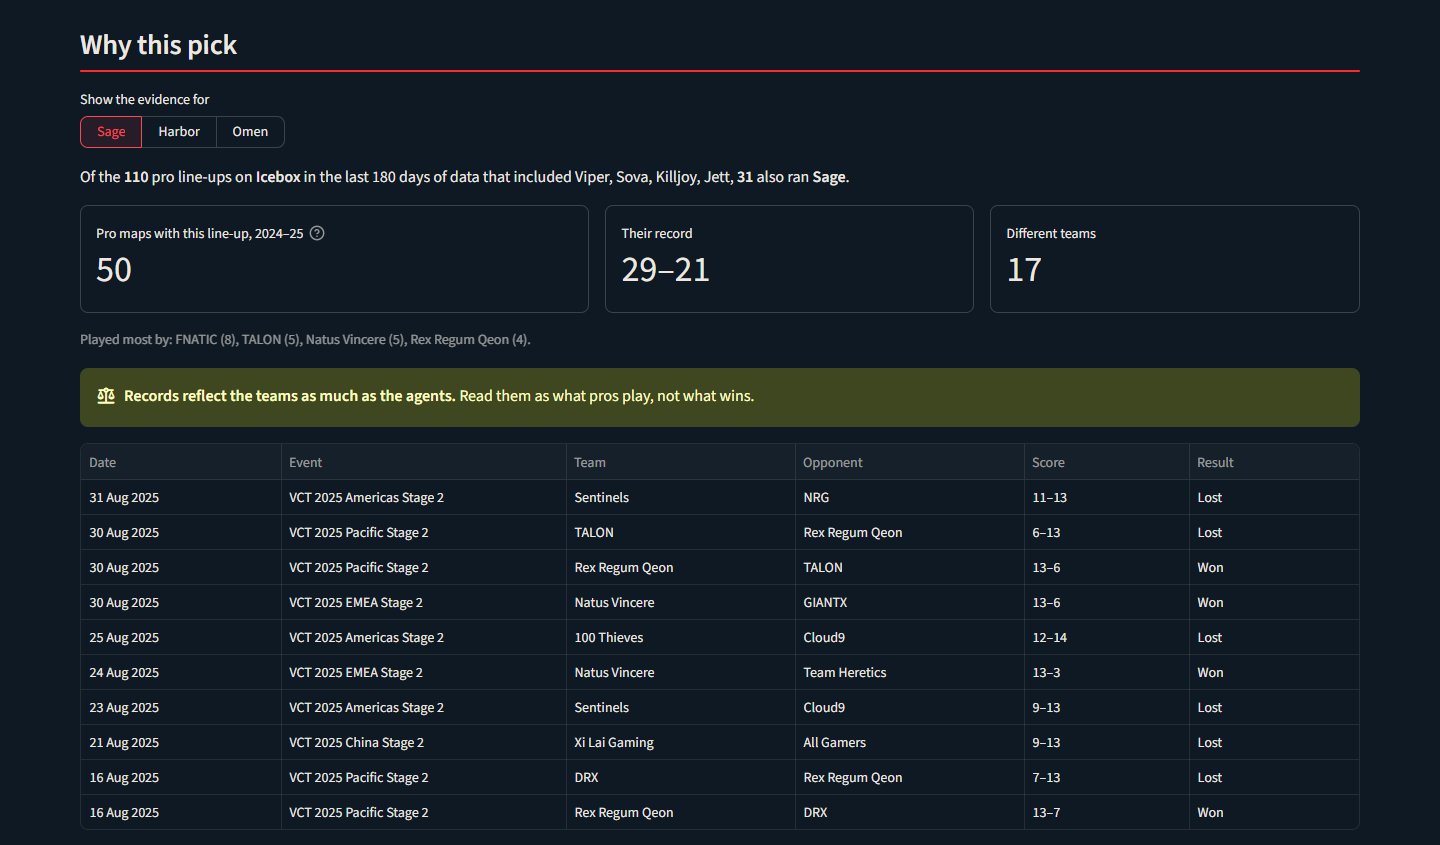
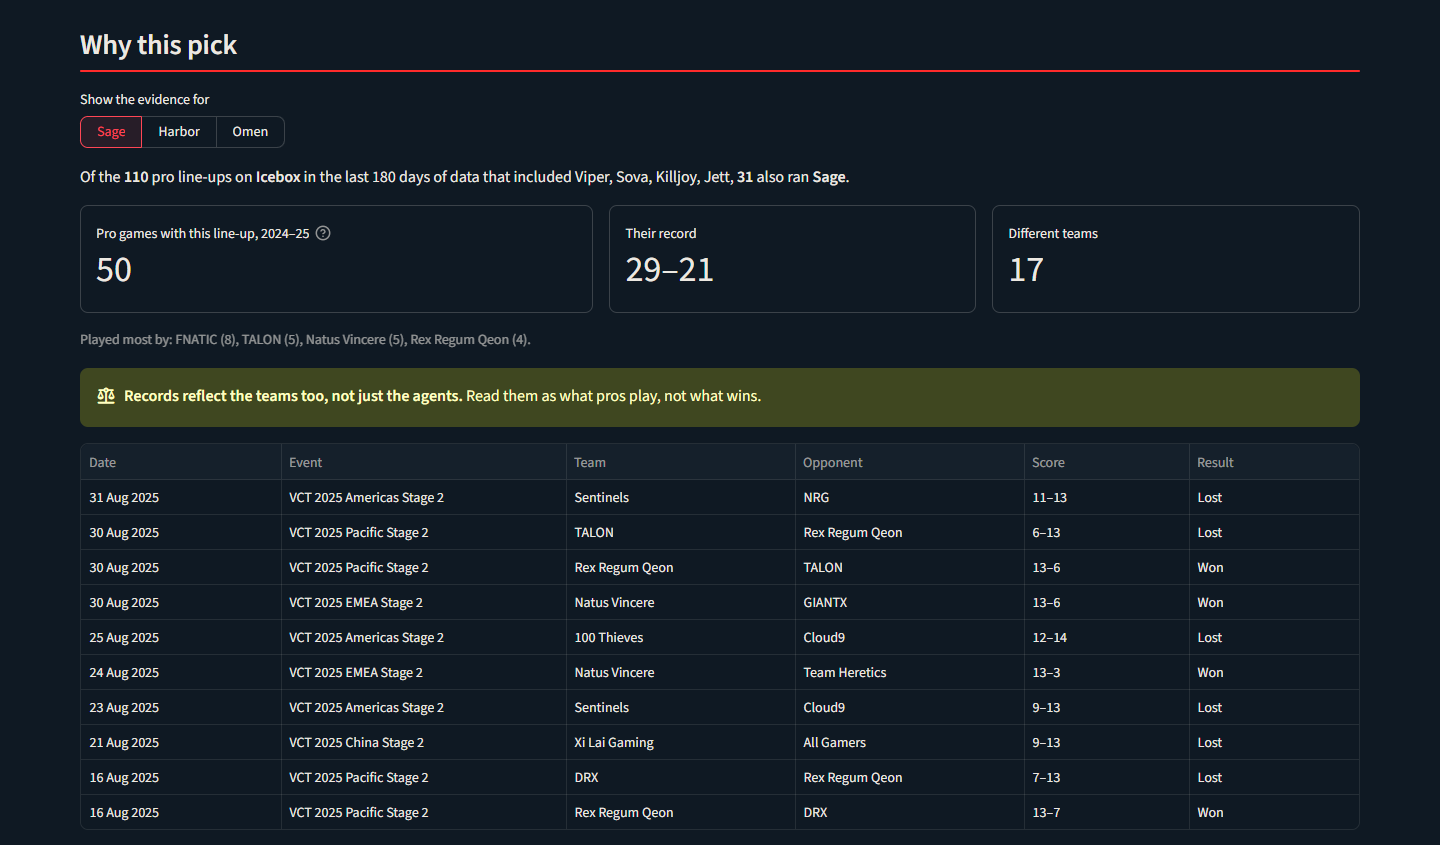
Explain the game and correct the deck's claims
Add a VALORANT primer slide, rename the naive rule the most-played rule, and explain terms where they appear. An accuracy check against the notebooks fixed three errors (the standout line-up, 49 teams, the 93% project's dataset) and softened claims the evidence doesn't fully support.

diff --git a/app_pages/recommender.py b/app_pages/recommender.py
@@ -161,7 +161,7 @@ if not locked:
                      "it was played."),
         },
     )
-    st.caption("Real line-ups pro teams ran. Records reflect the teams as much as the agents.")
+    st.caption("Real line-ups pro teams ran. Records reflect the teams too, not just the agents.")
 
     st.subheader("Most-played agents", divider="red")
     st.dataframe(
@@ -279,9 +279,9 @@ if locked:
         teams = games["team"].value_counts()
 
         with st.container(horizontal=True):
-            label = "Pro maps with this line-up" if len(locked) == 4 else "Pro maps with these agents"
+            label = "Pro games with this line-up" if len(locked) == 4 else "Pro games with these agents"
             st.metric(f"{label}, 2024–25", f"{len(games)}", border=True,
-                      help=f"Every pro map in 2024 and 2025, not only the last "
+                      help=f"Every pro game in 2024 and 2025, not only the last "
                            f"{EVIDENCE_WINDOW_DAYS} days counted in the sentence above.")
             st.metric("Their record", f"{wins}–{losses}", border=True)
             st.metric("Different teams", f"{len(teams)}", border=True)
@@ -289,7 +289,7 @@ if locked:
         most = ", ".join(f"{team} ({n})" for team, n in teams.head(4).items())
         st.caption(f"Played most by: {most}.")
         st.warning(
-            "**Records reflect the teams as much as the agents.** Read them as what pros play, "
+            "**Records reflect the teams too, not just the agents.** Read them as what pros play, "
             "not what wins.",
             icon=":material/balance:",
         )
@@ -319,7 +319,7 @@ with st.container(horizontal=True):
     st.metric("On a new season, top 3", f"{NEW_SEASON_TOP3:.1%}", border=True,
               help="On 2026, a new season with new agents and an off-season in between. "
                    "Each week scored using only earlier games. 1,772 line-ups.")
-    st.metric("Naive rule, top 3", f"{NAIVE_TOP3:.1%} / {NEW_SEASON_NAIVE_TOP3:.1%}", border=True,
+    st.metric("Most-played rule, top 3", f"{NAIVE_TOP3:.1%} / {NEW_SEASON_NAIVE_TOP3:.1%}", border=True,
               help="Suggesting the most-played agents on this map lately. Scored on the rest of "
                    "2025, then on 2026.")
     st.metric("Random guess, top 3", "≈13%", border=True)

diff --git a/README.md b/README.md
@@ -2,26 +2,29 @@
 
 A data science project on professional VALORANT (VCT) data. Give the recommender a map and
 the agents a team has locked in, and it suggests what a pro team would pick next. The rest of
-the project asks whether agent picks predict who wins. They don't.
+the project asks whether agent picks predict who wins. It finds no sign they do.
 
 ## The recommender
 
 With four agents locked in, how often the pros' actual fifth pick is in its top three:
 
-| Test | Recommender | Naive rule: "most-played here lately" |
+| Test | Recommender | Most-played rule: "what pros played most here lately" |
 |---|---|---|
 | Rest of 2025 (1,032 line-ups) | **91.3%** | 77.3% |
 | 2026, a new season (1,772 line-ups) | **87.4%** | 72.1% |
 
-- It leads the naive rule by 14.0 and 15.3 points, both with 95% ranges well above zero. It
-  names the pick first 74.8% and 65.7% of the time. Random guessing gets about 13% top-3.
-- The lead grows with each agent locked in: +1.4 points with one, +6.7 with two, +12.8 with
-  three, +19.3 with four (development data). With nothing locked in, the naive rule is best.
+- It leads the most-played rule (the notebooks call it the naive rule) by 14.0 and 15.3
+  points, both with 95% ranges well above zero. It names the pick first 74.8% and 65.7% of
+  the time. Random guessing gets about 13% top-3.
+- The fewer agents locked in, the smaller its lead. Measured as how much of the rest of the
+  line-up it fills in correctly (development data, not top 3): +1.4 points with one locked,
+  +6.7 with two, +12.8 with three, +19.3 with four. With none, the most-played rule is best.
 - Blind spots: a brand-new map (80% on Corrode against 93% elsewhere) and brand-new agents
-  (0% in their first week).
-- Gradient boosting is the headline because a rule written before any result chose it.
-  Simple co-occurrence counting comes within about a point on every test, so most of the
-  gain comes from using the locked agents, not the model type.
+  (43% top-3 on 2026's Miks and Veto, from only 77 questions).
+- Gradient boosting is the headline because a rule set in advance broke a development tie
+  with the map × agent classifier. Both were added after the first results, so only the tests
+  count. Simple co-occurrence comes within about a point on every test, so most of the gain
+  comes from using the locked agents, not the model type.
 - It predicts what pros pick, not what wins.
 
 ## Does picking right win?
@@ -32,16 +35,17 @@ With four agents locked in, how often the pros' actual fifth pick is in its top 
 | Picker rule: whoever chose the map wins (team A on deciders) | 52.9% |
 | Agent picks, map and who picked it | 50.8% |
 
-- **Agent picks don't predict the winner.** That holds four separate ways, and the agent model
-  came last again on unseen maps. Its log loss was worse than saying 50/50 to every map
-  (0.693): 0.760 in development, beyond what luck explains, and 0.704 on unseen maps.
+- **No sign that agent picks predict the winner**, tested four separate ways, and the agent
+  model came last again on unseen maps. Its log loss was worse than saying 50/50 to every map
+  (0.693) in development (0.760, beyond what luck explains) and no better on unseen maps
+  (0.704).
 - **Player form is ahead, but not provably.** In development it beat the picker rule by 5.6
   points (range +1.5 to +9.4), on all five folds (61.1% against 55.5%). On the test it led
   by 1.6 points, with a range of −3.2 to +6.4. That includes zero, and it also includes the
   development lead.
-- **No line-up wins more than its agents deserve** once you account for the team playing it.
-  The best-looking one wins 65%, but Paper Rex play 20 of its 43 maps. Seeing a realistic
-  5-point effect would need about 784 maps of one line-up; the most-used has 86.
+- **No sign any line-up wins more than its agents deserve.** One standout wins 65%, but Paper
+  Rex, who win 66% of all their maps, play 20 of its 43. Seeing a 5-point effect would need
+  about 784 maps of one line-up; the most-used has 86.
 - **No pattern in its errors survives a check against luck** (notebook 10). Two first-draft
   findings were retracted: "it predicts mismatches well" and "it squashes teams toward 50%".
 
@@ -81,8 +85,8 @@ Problems found and fixed (in `src/dataset.py`):
 ## Limits
 
 - It imitates the pros. Nothing here shows its picks win more.
-- Win–loss records in the app reflect the teams as much as the agents.
-- "No synergy" isn't proof there is none. One season is too small to see a realistic effect.
+- Win–loss records in the app reflect the teams too, and the two can't be separated.
+- "No synergy" isn't proof there is none. One season is too small to see a 5-point effect.
 - The app's recommender is trained on games up to October 2025.
 
 ## If it went live
@@ -91,7 +95,7 @@ Problems found and fixed (in `src/dataset.py`):
 |---|---|
 | Scoring | Real time. Training takes about 20 seconds; after that, each recommendation is instant |
 | Retraining | Weekly, as in the tests: the meta shifts and new agents arrive |
-| Monitoring | Each week, score last week's pro games against the naive rule and alert if the lead shrinks. Flag any new agent or map, its blind spots |
+| Monitoring | Each week, score last week's pro games against the most-played rule and alert if the lead shrinks. Flag any new agent or map, its blind spots |
 | Data | New dates come from vlr.gg (`fetch_vlr_dates.py`). Move the pinned dataset versions on deliberately, re-running `test_form.py` and `test_edge_cases.py` |
 
 ## Run it
@@ -118,9 +122,9 @@ after the first download everything runs offline.
 | 01 | First look at the raw files, and the problems in them |
 | 02 | The main table: one row per map |
 | 03 | Turning line-ups into numbers |
-| 04 | Agent picks model, which loses to the baseline |
+| 04 | Agent picks model, which doesn't beat the baseline |
 | 05–06 | Player form model, which beats it |
-| 07 | Do line-ups over-perform? No |
+| 07 | Do line-ups over-perform? No sign |
 | 08 | Logistic regression against tree models |
 | 09 | The last two fixes, then the win model is frozen |
 | 10 | Where the win model goes wrong |
@@ -138,8 +142,8 @@ Code is in `src/`, the app in `streamlit_app.py` and `app_pages/`, the deck in
 ## Similar projects
 
 - [Valorant Pro Match Analysis](https://github.com/DEF4LT-303/Valorant-Pro-Match-Analysis)
-  reports 93% by predicting the winner from statistics recorded during that same match. That
-  is the leak this project avoids.
+  reports 93% by predicting the winner from each player's kills, damage and combat score in the
+  game being predicted. That is the leak this project avoids.
 - [ValoAI](https://github.com/Corosso/ValoAI): logistic regression on team performance. The
   closest in spirit, including the app.
 - [valorant-match-predictor](https://github.com/kleinaitis/valorant-match-predictor): agent
